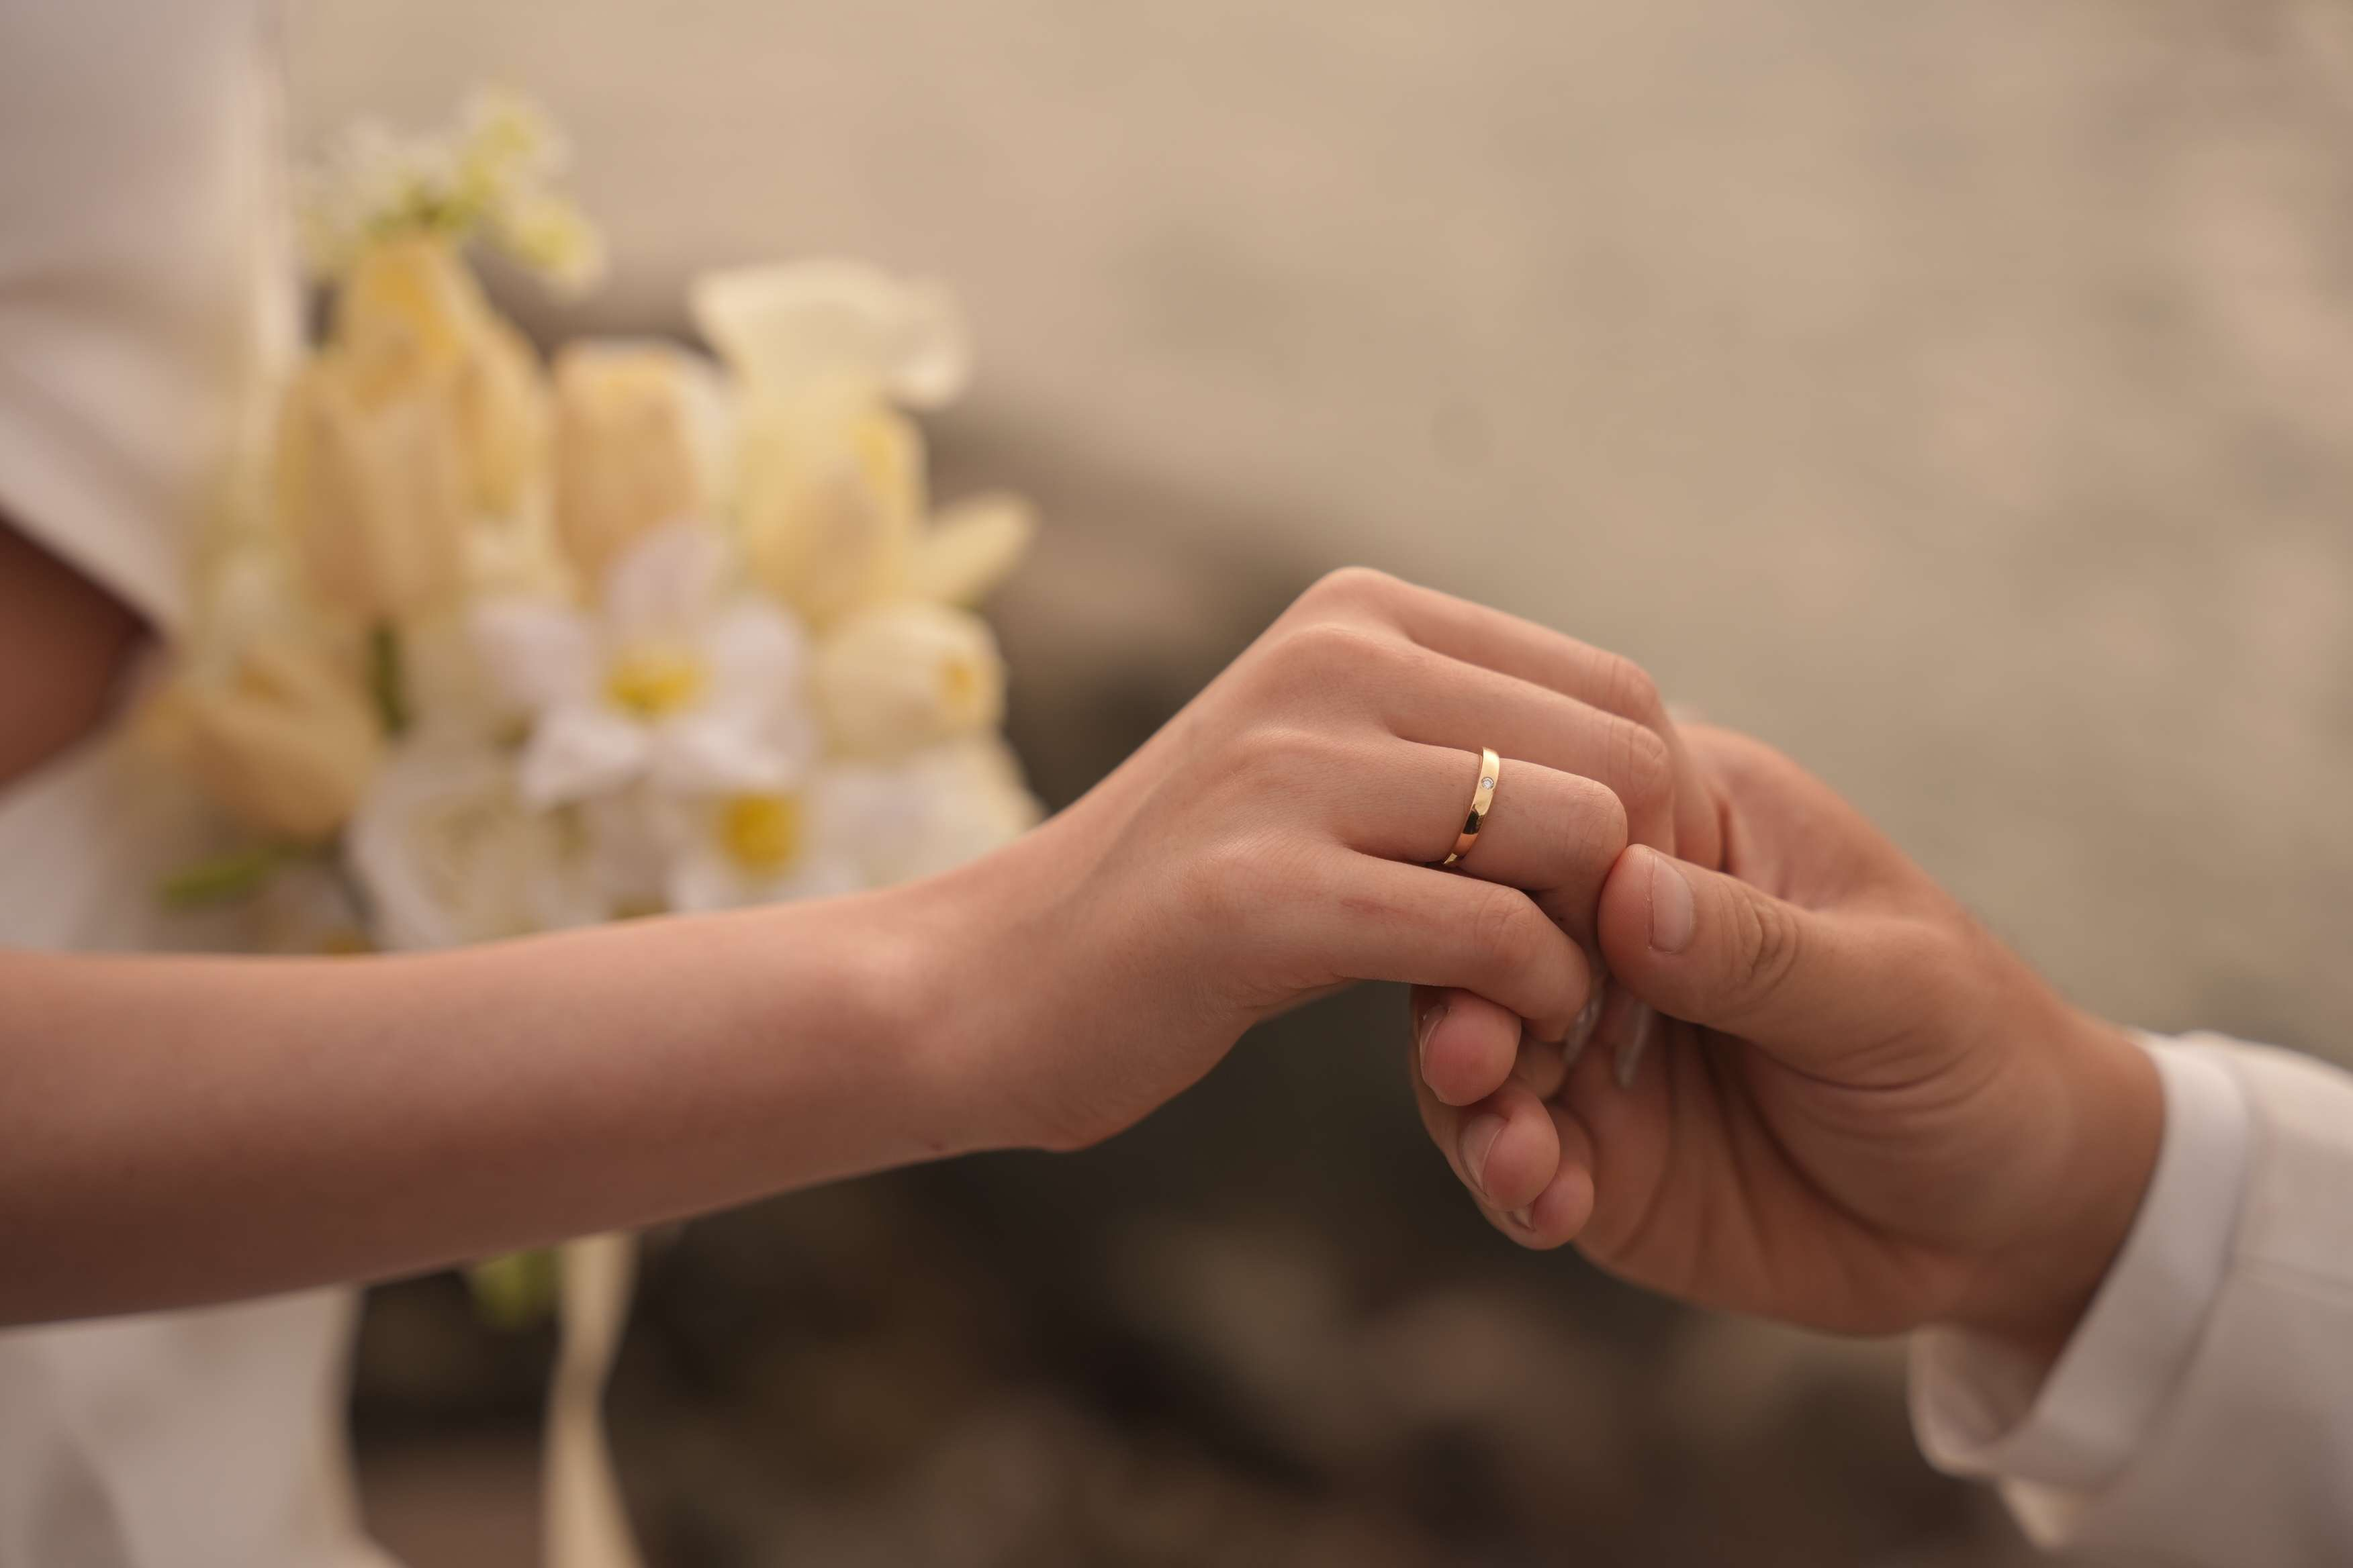
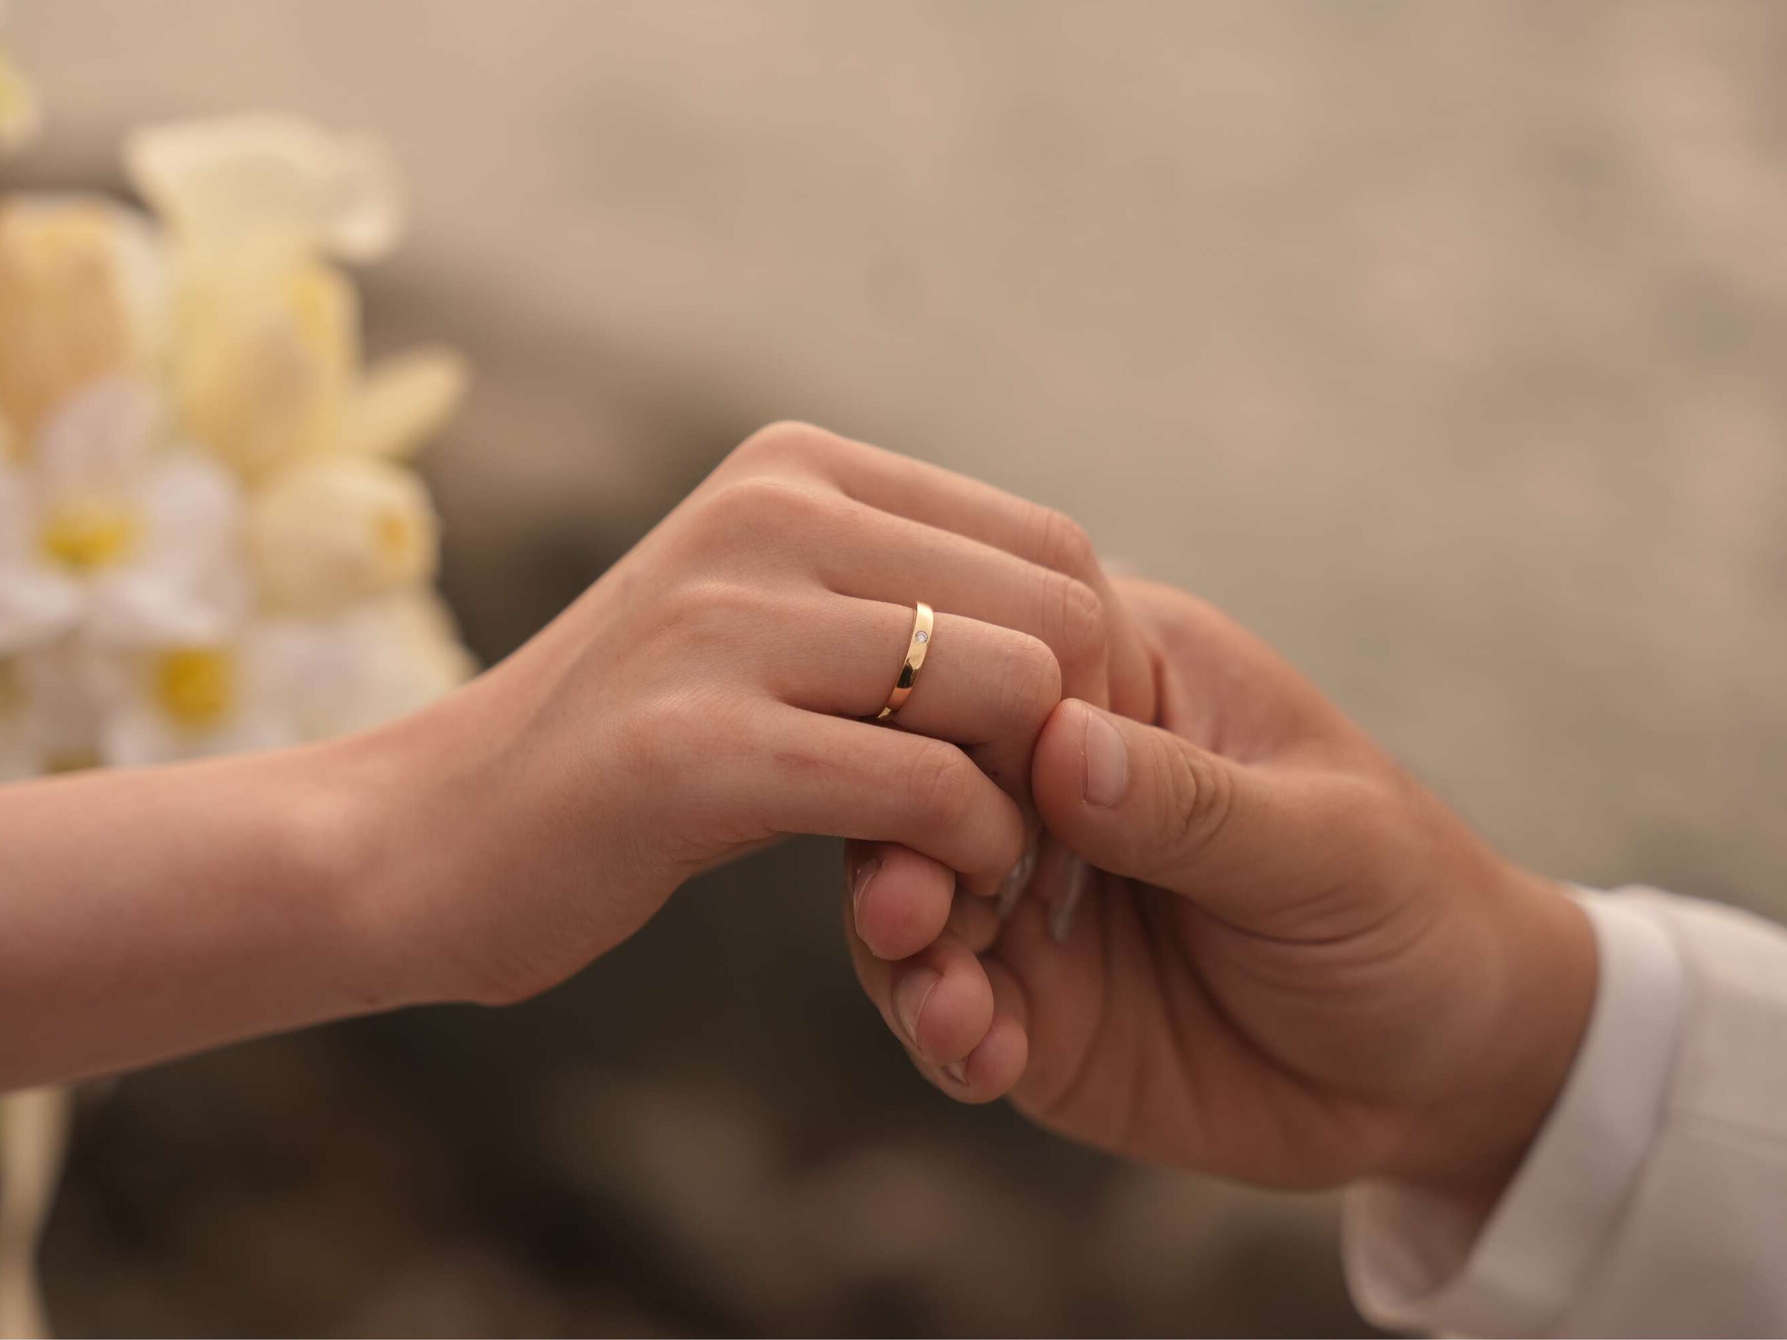
chore: css mobile

diff --git a/src/app/components/banner.tsx b/src/app/components/banner.tsx
@@ -21,9 +21,13 @@ export default function Banner() {
 
     return (
         <div className='relative'>
-            <img className='h-screen w-screen object-center object-cover' src='/DSC06624-2.jpg' alt='banner'/>
+            <img className='sm:hidden h-screen w-screen object-center object-cover'
+                 src='/DSC06624-1.jpg'
+                 alt='banner'/>
+            <img className='hidden sm:block h-screen w-screen object-center object-cover' src='/DSC06624-2.jpg'
+                 alt='banner'/>
             <div
-                className="z-20 flex-col absolute bottom-16 left-0 flex w-full items-center justify-center gap-7 font-mono text-sm">
+                className="z-40 flex-col absolute bottom-16 left-0 flex w-full items-center justify-center gap-7 font-mono text-sm">
                     <span
                         className='sm:block hidden text-white text-center text-xl'>{`🇼🇪🇩🇩🇮🇳🇬 🇮🇳🇻🇮🇹🇦🇹🇮🇴🇳`}</span>
                 <span

diff --git a/src/app/components/about.tsx b/src/app/components/about.tsx
@@ -22,7 +22,7 @@ export default function About() {
                         className='w-40 h-40 rounded-full object-cover object-center border border-dashed p-1 border-[#703B2B]'
                         src='/bride.png' alt='bride'/>
                     <span className='text-cyan-800 text-base'>👰🏻The Bride</span>
-                    <span className='text-[#703B2B] text-2xl mt-3'>Thiên Kiều</span>
+                    <span className='text-[#703B2B] text-2xl sm:mt-3'>Thiên Kiều</span>
                 </div>
             </div>
         </div>
